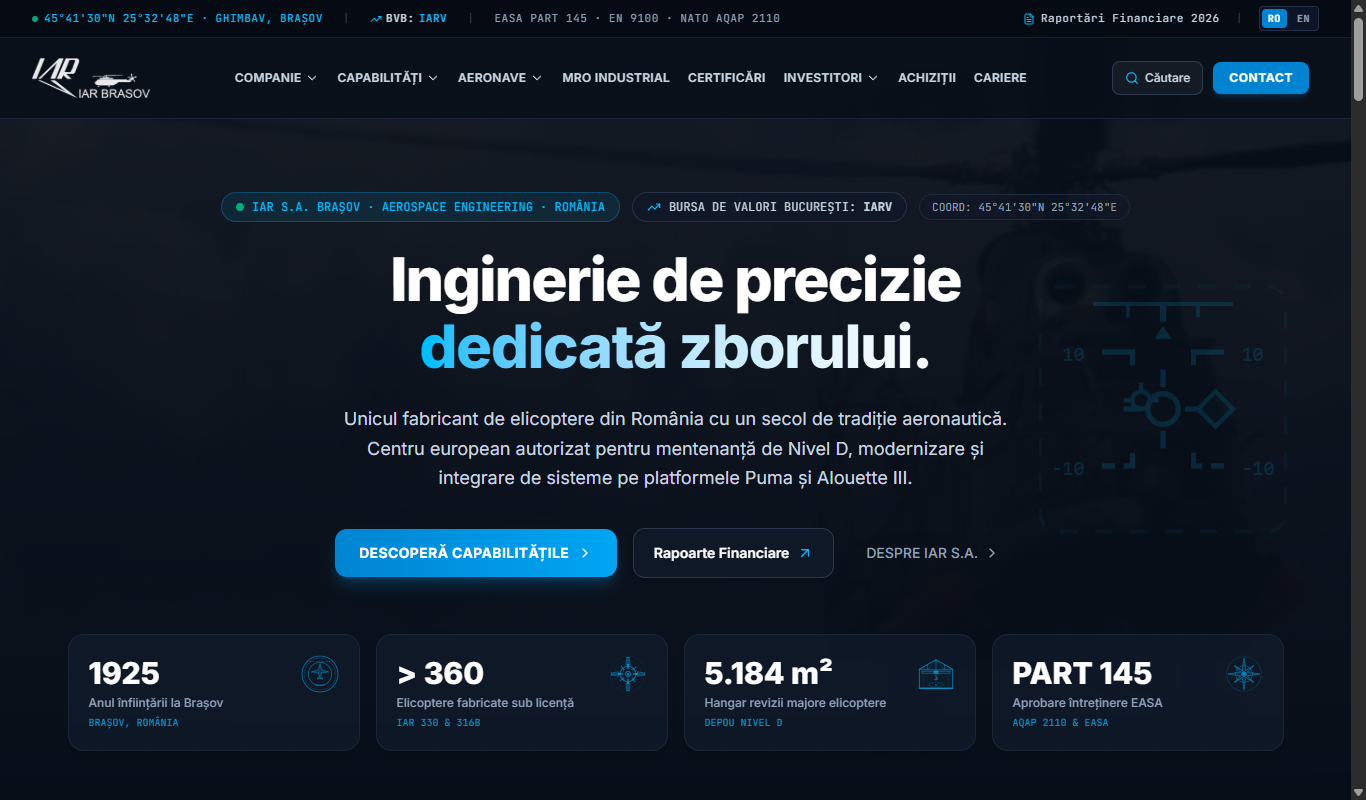
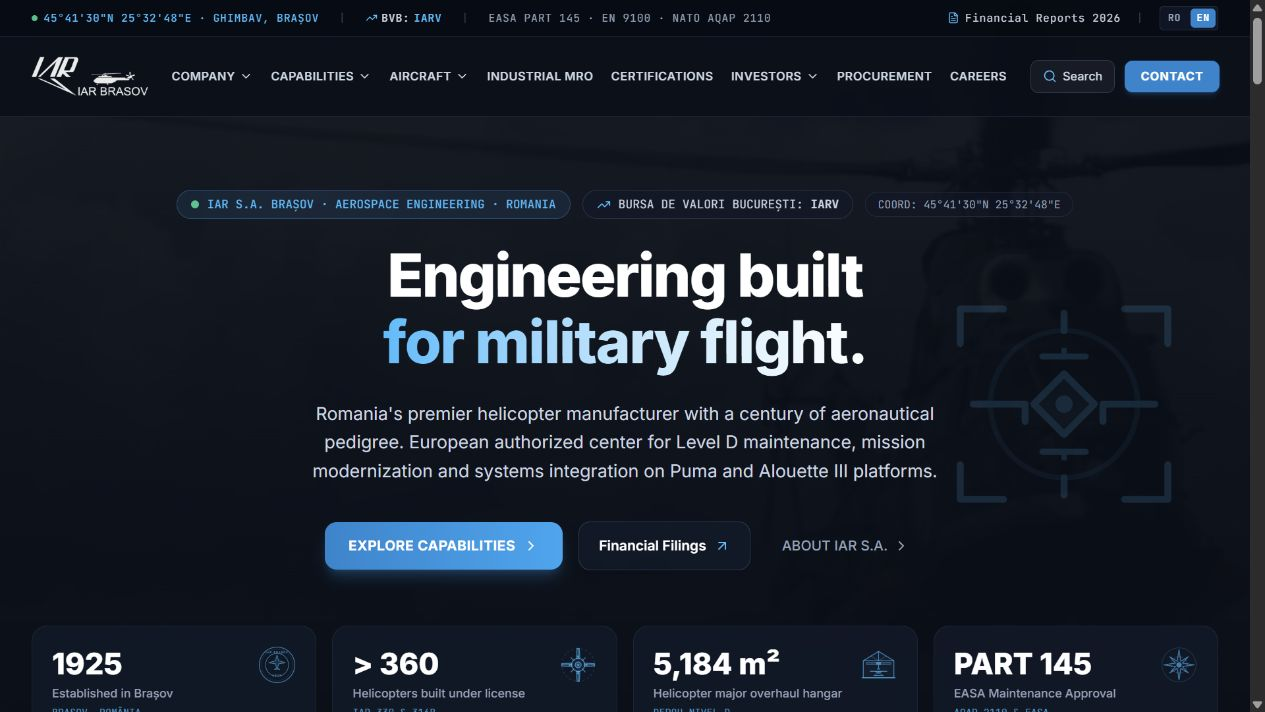
docs: use English README and screenshots

diff --git a/README.md b/README.md
@@ -1,46 +1,48 @@
 # IAR S.A. Brașov
 
-Website bilingv de prezentare pentru IAR S.A. Brașov, construit cu Next.js. Interfața include pagini despre companie și istoria sa, capabilități industriale, aeronave, mentenanță MRO, relații cu investitorii și contact.
+A bilingual presentation website for IAR S.A. Brașov, built with Next.js. It covers the company and its history, industrial capabilities, aircraft, MRO maintenance, investor relations and contact information.
 
-## Capturi de ecran
+The English site is available at **/en**. Some official labels, company facts and original investor documents remain in Romanian.
 
-### Pagina principală
+## Screenshots
 
-![Pagina principală IAR S.A. Brașov](screenshots/home.png)
+### Home page
 
-### Capabilități și modernizare
+![IAR S.A. Brașov home page in English](screenshots/home.png)
 
-![Pagina de capabilități aeronautice](screenshots/capabilities.png)
+### Capabilities and modernization
 
-### Mentenanță MRO
+![IAR aerospace capabilities page in English](screenshots/capabilities.png)
 
-![Pagina MRO](screenshots/mro.png)
+### MRO maintenance
 
-## Tehnologii
+![IAR MRO page in English](screenshots/mro.png)
 
-- Next.js 15 cu App Router
-- React 19 și TypeScript
+## Technologies
+
+- Next.js 15 with App Router
+- React 19 and TypeScript
 - Tailwind CSS 4
-- Radix UI, Framer Motion și Zod
+- Radix UI, Framer Motion and Zod
 
-## Rulare locală
+## Run locally
 
-Ai nevoie de Node.js 20 sau mai nou.
+Requires Node.js 20 or later.
 
-```bash
+~~~bash
 npm ci
 npm run dev
-```
+~~~
 
-Deschide [http://localhost:3000](http://localhost:3000). Ruta rădăcină redirecționează la `/ro`; versiunea în engleză este disponibilă la `/en`.
+Open [http://localhost:3000](http://localhost:3000). The root route redirects to **/ro**; the English version is at **/en**.
 
-Pentru o versiune de producție:
+For a production build:
 
-```bash
+~~~bash
 npm run build
 npm start
-```
+~~~
 
-## Observație despre formularul de contact
+## Contact form
 
-Ruta API validează datele formularului și le scrie în logurile serverului. Trimiterea efectivă a mesajelor prin e-mail nu este configurată în acest repository.
+The API route validates form data and writes it to the server logs. Email delivery is not configured in this repository.
